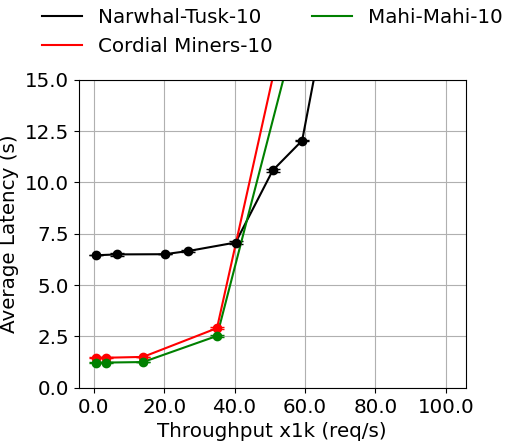
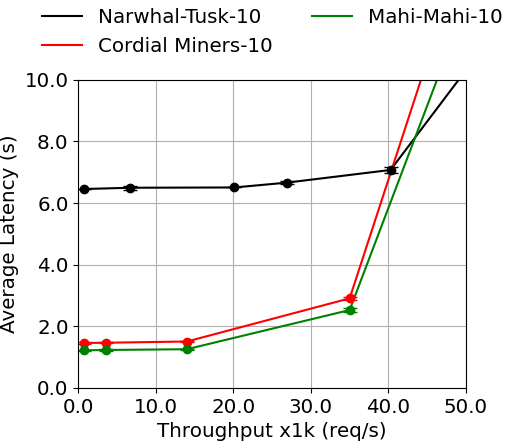
fixed crash graph

diff --git a/experiments/peformance-graphs/simple-graph.py b/experiments/peformance-graphs/simple-graph.py
@@ -396,8 +396,8 @@ ax = plt.gca()
 ax.xaxis.set_major_formatter(FuncFormatter(thousands))
 ax.yaxis.set_major_formatter(FuncFormatter(thousands))
 
-# ax.set_xlim([0, 1500])
-ax.set_ylim([0, 15000])
+ax.set_xlim([0, 50000])
+ax.set_ylim([0, 10000])
 
 
 plt.plot(narwhal_10_crash_throughput, narwhal_10_crash_latency, 'k-', label='Narwhal-Tusk-10')
